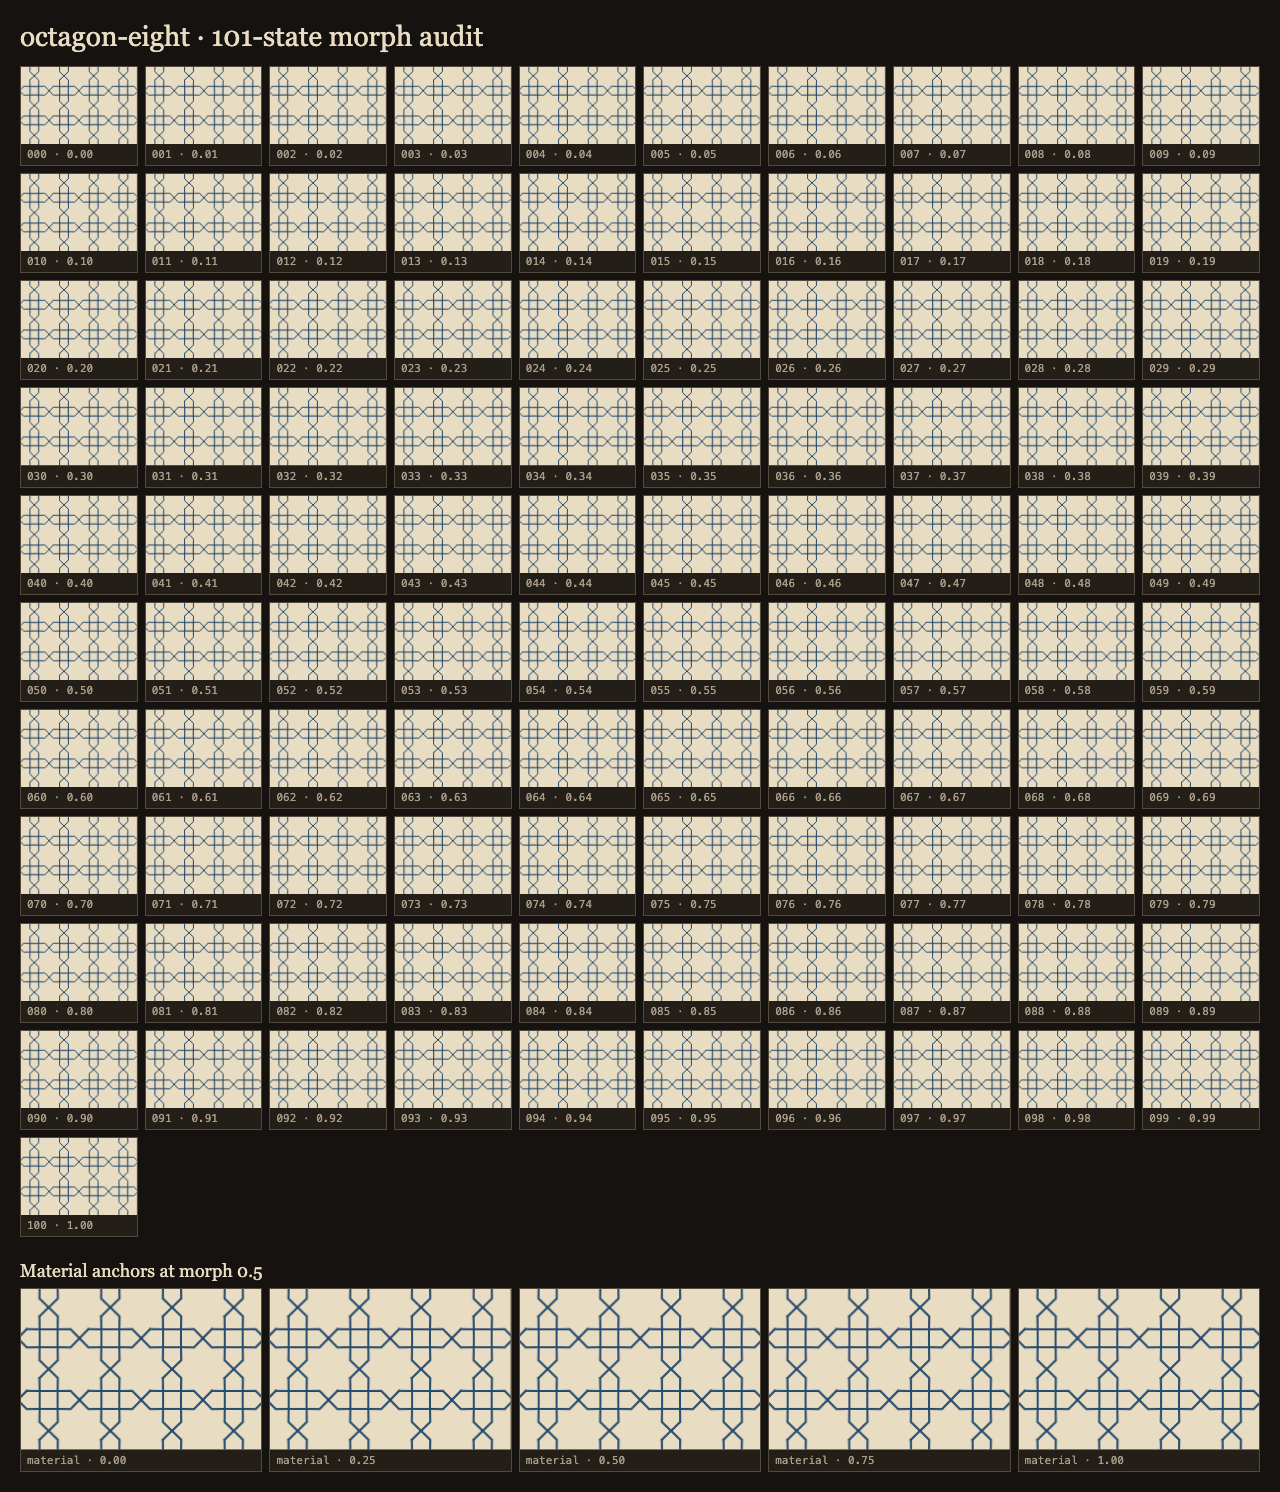
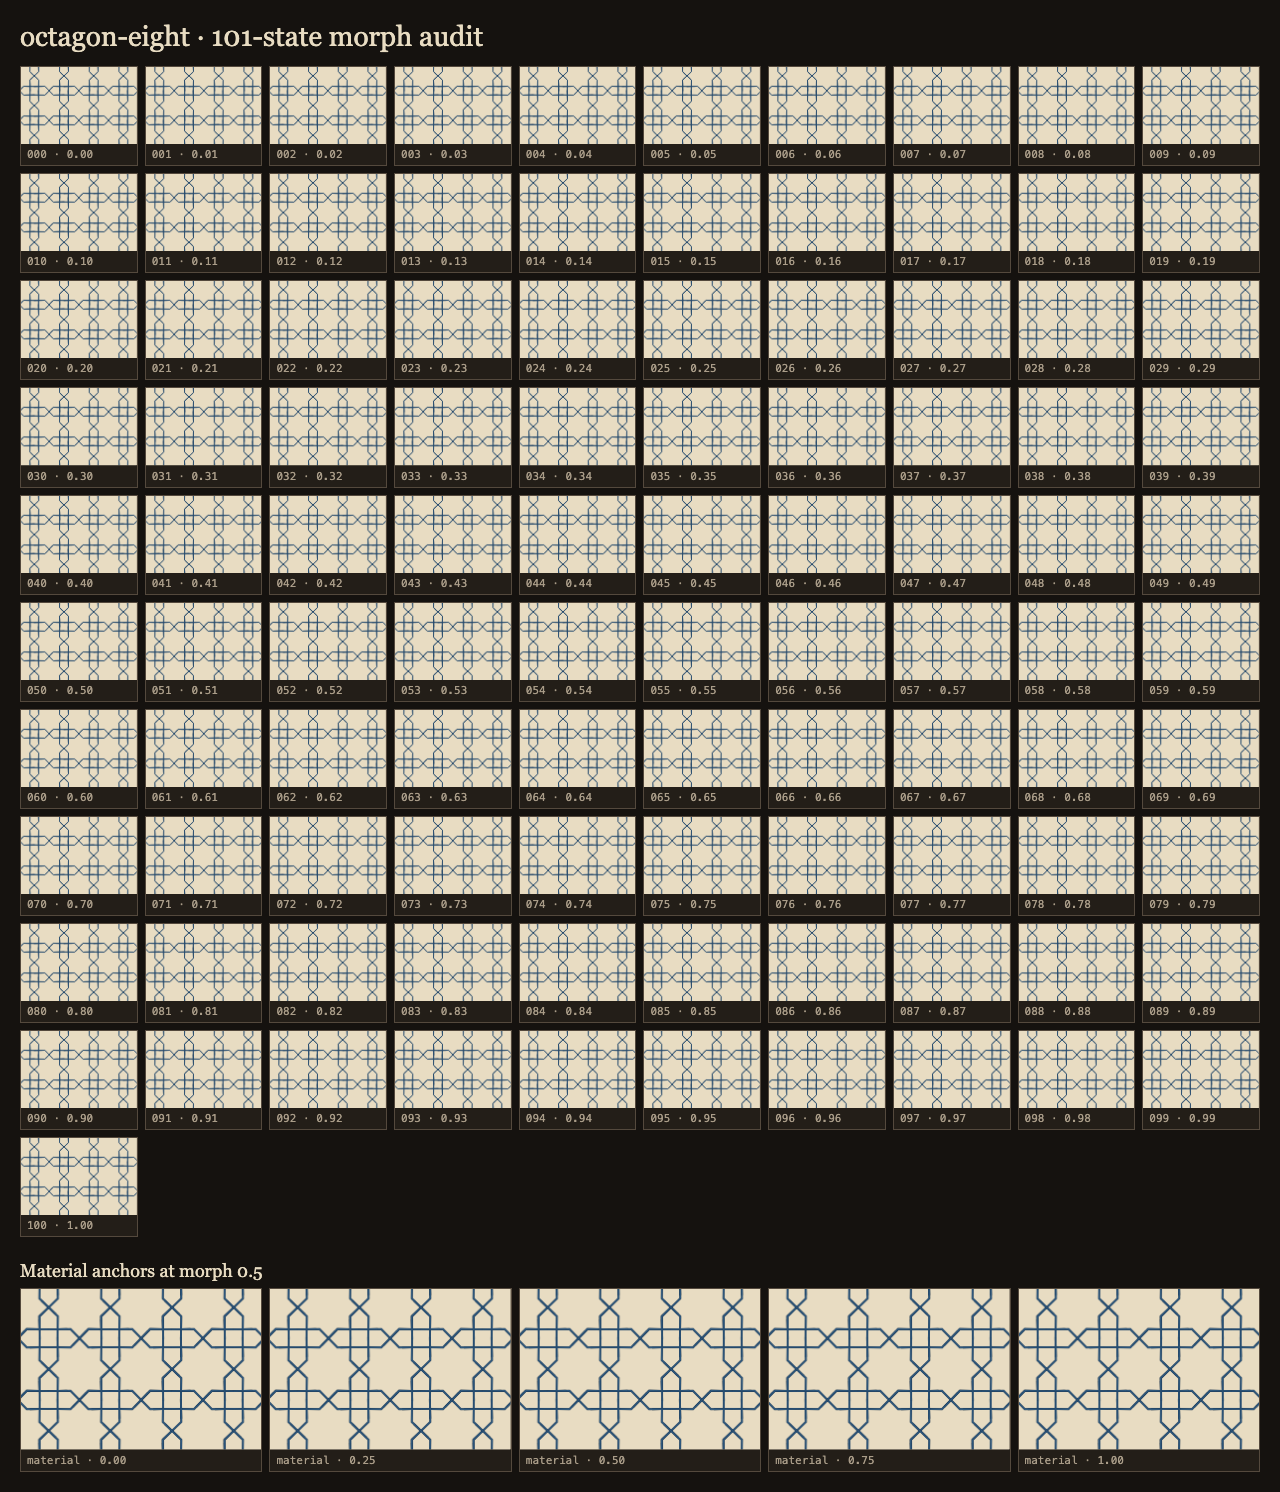
fix: mitre the strapwork across the repeat seam
Some star tips carried a small dark burst of spikes at the point while
others were clean.

A strand that wraps is cut where it leaves the cell, and that cut
usually lands on a bend. Each copy was drawn as its own stroke, so this
one ended with a cap square to its last segment while the neighbouring
copy began with a cap square to its first. Two caps meeting at an angle
are not a mitre, and the wide dark outline turned the mismatch into a
spray of spikes. Only tips that happened to sit on a seam were affected,
which is why it looked arbitrary.

Each drawn path now carries one segment past either end into the next
cell, so both ends fall on ordinary mitred joins. The overlap is
invisible: the layers are opaque and the neighbouring copy paints
exactly the same thing over it. A closed strand instead drops the first
point it repeats at the end, which was closing Z over a zero-length
segment whose direction is undefined.

Worth recording how this was found, because three plausible causes were
wrong. It is not the mitre limit: the sharpest bend in any design is 38
degrees, a ratio of 3.07, inside the SVG default of 4, and forcing every
join to bevel changed nothing. It is not a short segment: the shortest
is 37.5 against a 20 unit outline. It is not an unwoven crossing: every
crossing in every design is an intersection with a weave. Colouring the
outline layer green is what settled it, by showing which layer drew the
mark.
[…]

diff --git a/src/render.ts b/src/render.ts
@@ -1,6 +1,6 @@
 import type { AppStateV1 } from './state'
 import { translateByWrap, unwrapCycle } from './geometry/kernel'
-import type { RenderScene, ScenePath, Vec2 } from './geometry/types'
+import type { LatticeOffset, RenderScene, ScenePath, Vec2 } from './geometry/types'
 import type { Palette } from './palettes'
 
 export const RENDER_VIEWBOX = Object.freeze({ width: 1200, height: 800 })
@@ -144,6 +144,41 @@ function strokeMarkup(
   ].join('')
 }
 
+/**
+ * The points actually drawn for a strand.
+ *
+ * A closed strand arrives with its first point repeated at the end; drawing that
+ * AND closing with Z leaves a zero-length segment whose direction is undefined.
+ *
+ * A wrapping strand is cut at the cell boundary, and that cut usually lands on a
+ * bend. Drawn as-is, this copy ends with a cap square to its last segment while
+ * the neighbouring copy starts with a cap square to its first, and the two meet
+ * at an angle as a spray of spikes instead of a mitre. Carrying the path one
+ * segment past each end into the next cell turns both into ordinary mitred
+ * joins; the overlap is invisible because every layer is opaque and the
+ * neighbour paints exactly the same thing there.
+ */
+function drawablePoints(path: ScenePath, scene: RenderScene): readonly Vec2[] {
+  const points = path.points
+  if (points.length < 2) return points
+  if (path.closed) return points.slice(0, -1)
+
+  const wrap = {
+    x: scene.cell.a.x * path.netWrap.u + scene.cell.b.x * path.netWrap.v,
+    y: scene.cell.a.y * path.netWrap.u + scene.cell.b.y * path.netWrap.v,
+  }
+  if (wrap.x === 0 && wrap.y === 0) return points
+  const last = points.length - 1
+  const before = points[last - 1]
+  const after = points[1]
+  if (!before || !after) return points
+  return [
+    { x: before.x - wrap.x, y: before.y - wrap.y },
+    ...points,
+    { x: after.x + wrap.x, y: after.y + wrap.y },
+  ]
+}
+
 /** True when the weave repeats on the cell, so one patch group can be reused. */
 function weaveRepeatsPerCell(scene: RenderScene): boolean {
   return scene.graph.crossings.every(
@@ -160,8 +195,13 @@ function weaveRepeatsPerCell(scene: RenderScene): boolean {
  * cap instead squares it off against its own direction, which is the wrong angle
  * at every crossing that is not a right angle.
  *
- * The patch paints the over-band's own footprint and nothing wider, so unlike a
- * background-coloured eraser it cannot mark geometry that merely passes nearby.
+ * The patch follows the strand's real centreline rather than a straight segment.
+ * A straight patch that reached a star tip would end flat across a vertex the
+ * strand turns a sharp mitre at, cutting the point off and leaving a nub. Being
+ * a sub-path of the strand, this inherits the identical join.
+ *
+ * It never walks past the next crossing, because beyond that the same strand may
+ * be the one going under, and repainting there would put it on top.
  */
 function crossingPatches(
   scene: RenderScene,
@@ -173,16 +213,15 @@ function crossingPatches(
   if (materialized === 0) return ''
   const bandWidth = 2.2 + material * 24.6
   const outlineWidth = bandWidth + materialized * (4 + material * 3)
+  const overshoot = Math.max(0.75, outlineWidth * 0.05)
   const vertices = new Map(scene.graph.vertices.map((vertex) => [vertex.id, vertex]))
   const edges = new Map(scene.graph.halfEdges.map((edge) => [edge.id, edge]))
+  const crossingByVertex = new Map(
+    scene.graph.crossings.map((crossing) => [crossing.vertex, crossing]),
+  )
+  const pathById = new Map(scene.paths.map((path) => [path.id, path]))
 
-  // Direction of an arm leaving the crossing, plus how far it runs before the
-  // strand bends. The patch must not reach past that bend: beyond it the patch
-  // stops being collinear with the strand and its outline shows.
-  const along = (
-    armId: string,
-    from: Vec2,
-  ): Readonly<{ unit: Vec2; span: number }> | undefined => {
+  const armDirection = (armId: string, from: Vec2): Vec2 | undefined => {
     const edge = edges.get(armId)
     const twin = edge ? edges.get(edge.twin) : undefined
     const target = twin ? vertices.get(twin.origin) : undefined
@@ -190,67 +229,99 @@ function crossingPatches(
     const to = translateByWrap(target.position, scene.cell, edge.wrap)
     const span = Math.hypot(to.x - from.x, to.y - from.y)
     if (span === 0) return undefined
-    return { unit: { x: (to.x - from.x) / span, y: (to.y - from.y) / span }, span }
+    return { x: (to.x - from.x) / span, y: (to.y - from.y) / span }
   }
 
-  return scene.graph.crossings.map((crossing) => {
-    if (crossing.kind === 'contact') return ''
-    const centre = vertices.get(crossing.vertex)?.position
-    if (!centre) return ''
-    const phase = Math.abs(
-      crossing.weavePhase.u * translation.u + crossing.weavePhase.v * translation.v,
-    ) % 2
-    const overPair = (crossing.overPair ^ phase) as 0 | 1
-    const overArms = crossing.continuations[overPair]
-    const forward = along(overArms[0], centre)
-    const backward = along(overArms[1], centre)
-    const under = along(crossing.continuations[overPair === 0 ? 1 : 0][0], centre)
-    if (!forward || !backward || !under) return ''
-    // How far the patch must run to clear the band passing underneath.
-    //
-    // It is the far CORNER of the over-band that has to escape the under-band,
-    // not its centreline, and the corner sits half a width off to the side.
-    // Clearing only the centreline leaves the under-strand's outline poking
-    // through the over-strand as a notch on each flank, and the shortfall grows
-    // as the crossing gets shallower.
-    const half = outlineWidth / 2
-    const sine = Math.max(
-      Math.abs(forward.unit.x * under.unit.y - forward.unit.y * under.unit.x),
-      0.2,
-    )
-    const cosine = Math.abs(forward.unit.x * under.unit.x + forward.unit.y * under.unit.y)
-    const wanted = (half * (1 + cosine)) / sine + 1
-    // The band and its sheen run slightly past the outline layer beneath them.
-    //
-    // All three layers ending on one line leaves the outline's antialiased cap
-    // showing along it as a hairline across the band, because the band painted
-    // over it stops on exactly the same line. Letting the band overshoot buries
-    // that fringe, and the band's own end is invisible: it meets more of the
-    // same band colour, already drawn there by the strand itself.
-    const overshoot = Math.max(0.75, outlineWidth * 0.05)
-    const reach = (span: number): Readonly<{ outline: number; band: number }> => {
-      const outline = Math.min(wanted, Math.max(0, span - overshoot))
-      return { outline, band: Math.min(outline + overshoot, span) }
+  const markup: string[] = []
+  for (const strand of scene.graph.strands) {
+    const path = pathById.get(strand.id)
+    if (!path || path.points.length < 2) continue
+    const steps = path.points.length - 1
+    const wrap = {
+      x: scene.cell.a.x * path.netWrap.u + scene.cell.b.x * path.netWrap.v,
+      y: scene.cell.a.y * path.netWrap.u + scene.cell.b.y * path.netWrap.v,
     }
-    const ahead = reach(forward.span)
-    const behind = reach(backward.span)
-    const at = (arm: typeof forward, distance: number): Vec2 => ({
-      x: centre.x + arm.unit.x * distance,
-      y: centre.y + arm.unit.y * distance,
-    })
-    const segment = (distances: Readonly<{ back: number; front: number }>): string =>
-      polylineData([at(backward, distances.back), at(forward, distances.front)], false)
+    // Index beyond either end continues into the neighbouring cell, which is
+    // where the strand actually goes.
+    const pointAt = (index: number): Vec2 => {
+      const lap = Math.floor(index / steps)
+      const local = index - lap * steps
+      const base = path.points[local] ?? path.points[0]
+      if (!base) return { x: 0, y: 0 }
+      return { x: base.x + wrap.x * lap, y: base.y + wrap.y * lap }
+    }
 
-    const outlineD = segment({ back: behind.outline, front: ahead.outline })
-    const bandD = segment({ back: behind.band, front: ahead.band })
-    const common = 'fill="none" stroke-linecap="butt" stroke-linejoin="miter"'
-    const sheen = blend(palette.strand, palette.highlight, materialized * (0.12 + material * 0.22))
-    return [
-      `<path d="${outlineD}" ${common} stroke="${palette.edge}" stroke-width="${number(outlineWidth)}"/>`,
-      `<path d="${bandD}" ${common} stroke="${palette.strand}" stroke-width="${number(bandWidth)}"/>`,
-      `<path d="${bandD}" ${common} stroke="${sheen}" stroke-width="${number(Math.max(0.8, bandWidth * 0.1))}"/>`,
-    ].join('')
-  }).join('')
+    let tile: LatticeOffset = { u: 0, v: 0 }
+    for (let index = 0; index < steps; index += 1) {
+      const edge = edges.get(strand.edges[index] ?? '')
+      if (!edge) continue
+      const here = tile
+      tile = { u: tile.u + edge.wrap.u, v: tile.v + edge.wrap.v }
+      const crossing = crossingByVertex.get(edge.origin)
+      if (!crossing || crossing.kind === 'contact') continue
+      const pair = crossing.continuations.findIndex((arms) => arms.includes(edge.id))
+      if (pair < 0) continue
+      const phase = Math.abs(
+        crossing.weavePhase.u * (translation.u + here.u) +
+        crossing.weavePhase.v * (translation.v + here.v),
+      ) % 2
+      if (((crossing.overPair ^ phase) as number) !== pair) continue
+
+      const centre = pointAt(index)
+      const under = armDirection(crossing.continuations[pair === 0 ? 1 : 0][0], centre)
+      const over = armDirection(edge.id, centre)
+      if (!under || !over) continue
+      // The far CORNER of the over-band has to escape the under-band, not its
+      // centreline, and that corner sits half a width off to the side.
+      const half = outlineWidth / 2
+      const sine = Math.max(Math.abs(over.x * under.y - over.y * under.x), 0.2)
+      const cosine = Math.abs(over.x * under.x + over.y * under.y)
+      const wanted = (half * (1 + cosine)) / sine + 1
+
+      // Walk the strand's own points outward, stopping at the next crossing.
+      const walk = (direction: 1 | -1, limit: number): Vec2[] => {
+        const run: Vec2[] = [centre]
+        let left = limit
+        for (let step = 1; step <= 2 && left > 0; step += 1) {
+          const from = run[run.length - 1]
+          const to = pointAt(index + direction * step)
+          if (!from) break
+          const length = Math.hypot(to.x - from.x, to.y - from.y)
+          if (length < 1e-9) continue
+          if (left < length) {
+            run.push({
+              x: from.x + ((to.x - from.x) / length) * left,
+              y: from.y + ((to.y - from.y) / length) * left,
+            })
+            return run
+          }
+          run.push(to)
+          left -= length
+        }
+        return run
+      }
+      const trace = (limit: number): Vec2[] => {
+        const back = walk(-1, limit)
+        const ahead = walk(1, limit)
+        return [...back.slice(1).reverse(), ...ahead]
+      }
+
+      const outlineD = polylineData(trace(Math.max(0, wanted - overshoot)), false)
+      const bandD = polylineData(trace(wanted), false)
+      const common = 'fill="none" stroke-linecap="butt" stroke-linejoin="miter"' 
+      const sheen = blend(
+        palette.strand,
+        palette.highlight,
+        materialized * (0.12 + material * 0.22),
+      )
+      markup.push(
+        `<path d="${outlineD}" ${common} stroke="${palette.edge}" stroke-width="${number(outlineWidth)}"/>`,
+        `<path d="${bandD}" ${common} stroke="${palette.strand}" stroke-width="${number(bandWidth)}"/>`,
+        `<path d="${bandD}" ${common} stroke="${sheen}" stroke-width="${number(Math.max(0.8, bandWidth * 0.1))}"/>`,
+      )
+    }
+  }
+  return markup.join('')
 }
 
 /**
@@ -344,7 +415,7 @@ export function renderSceneMarkup(
   // Strands are drawn whole; the crossing patches put the over-strand back on
   // top afterwards, which is what opens the weave.
   const cellPaths = scene.paths.map((path) => strokeMarkup(
-    polylineData(path.points, path.closed),
+    polylineData(drawablePoints(path, scene), path.closed),
     palette,
     state.material,
     path.role,
